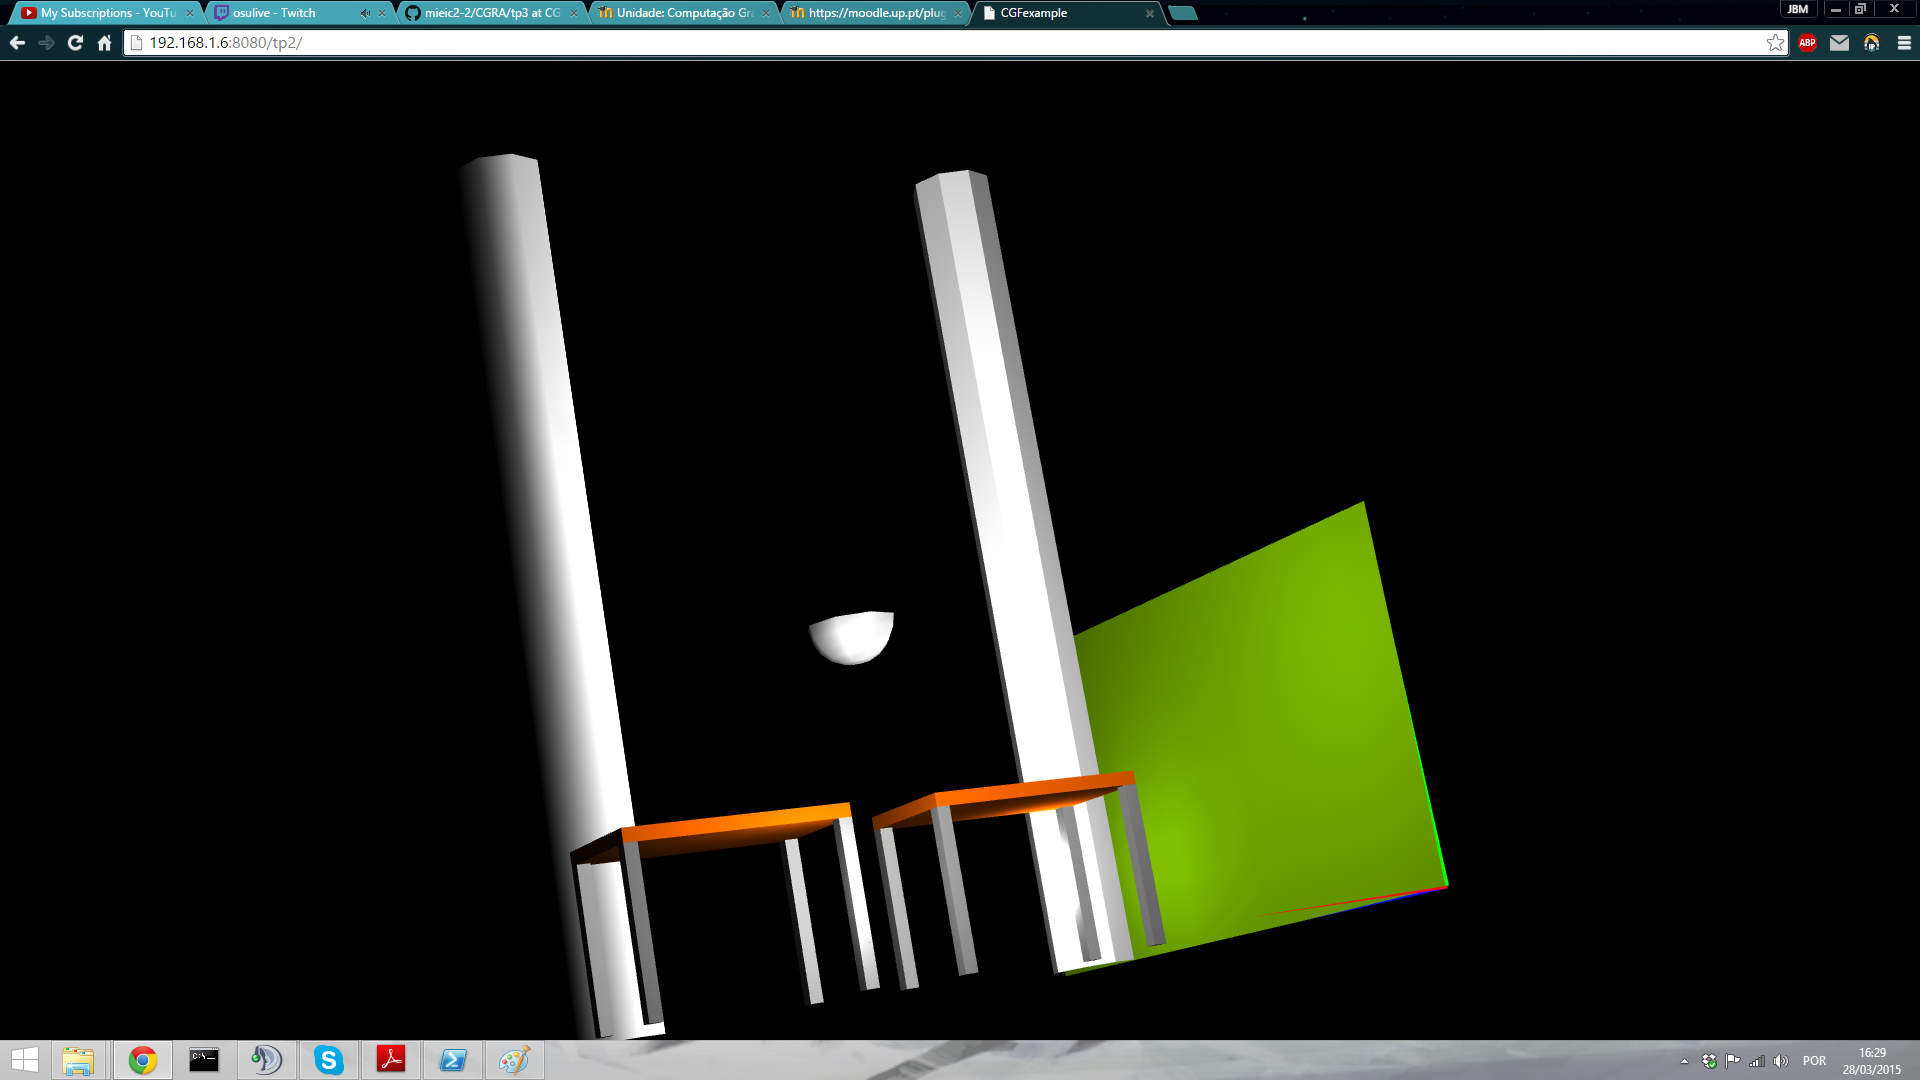
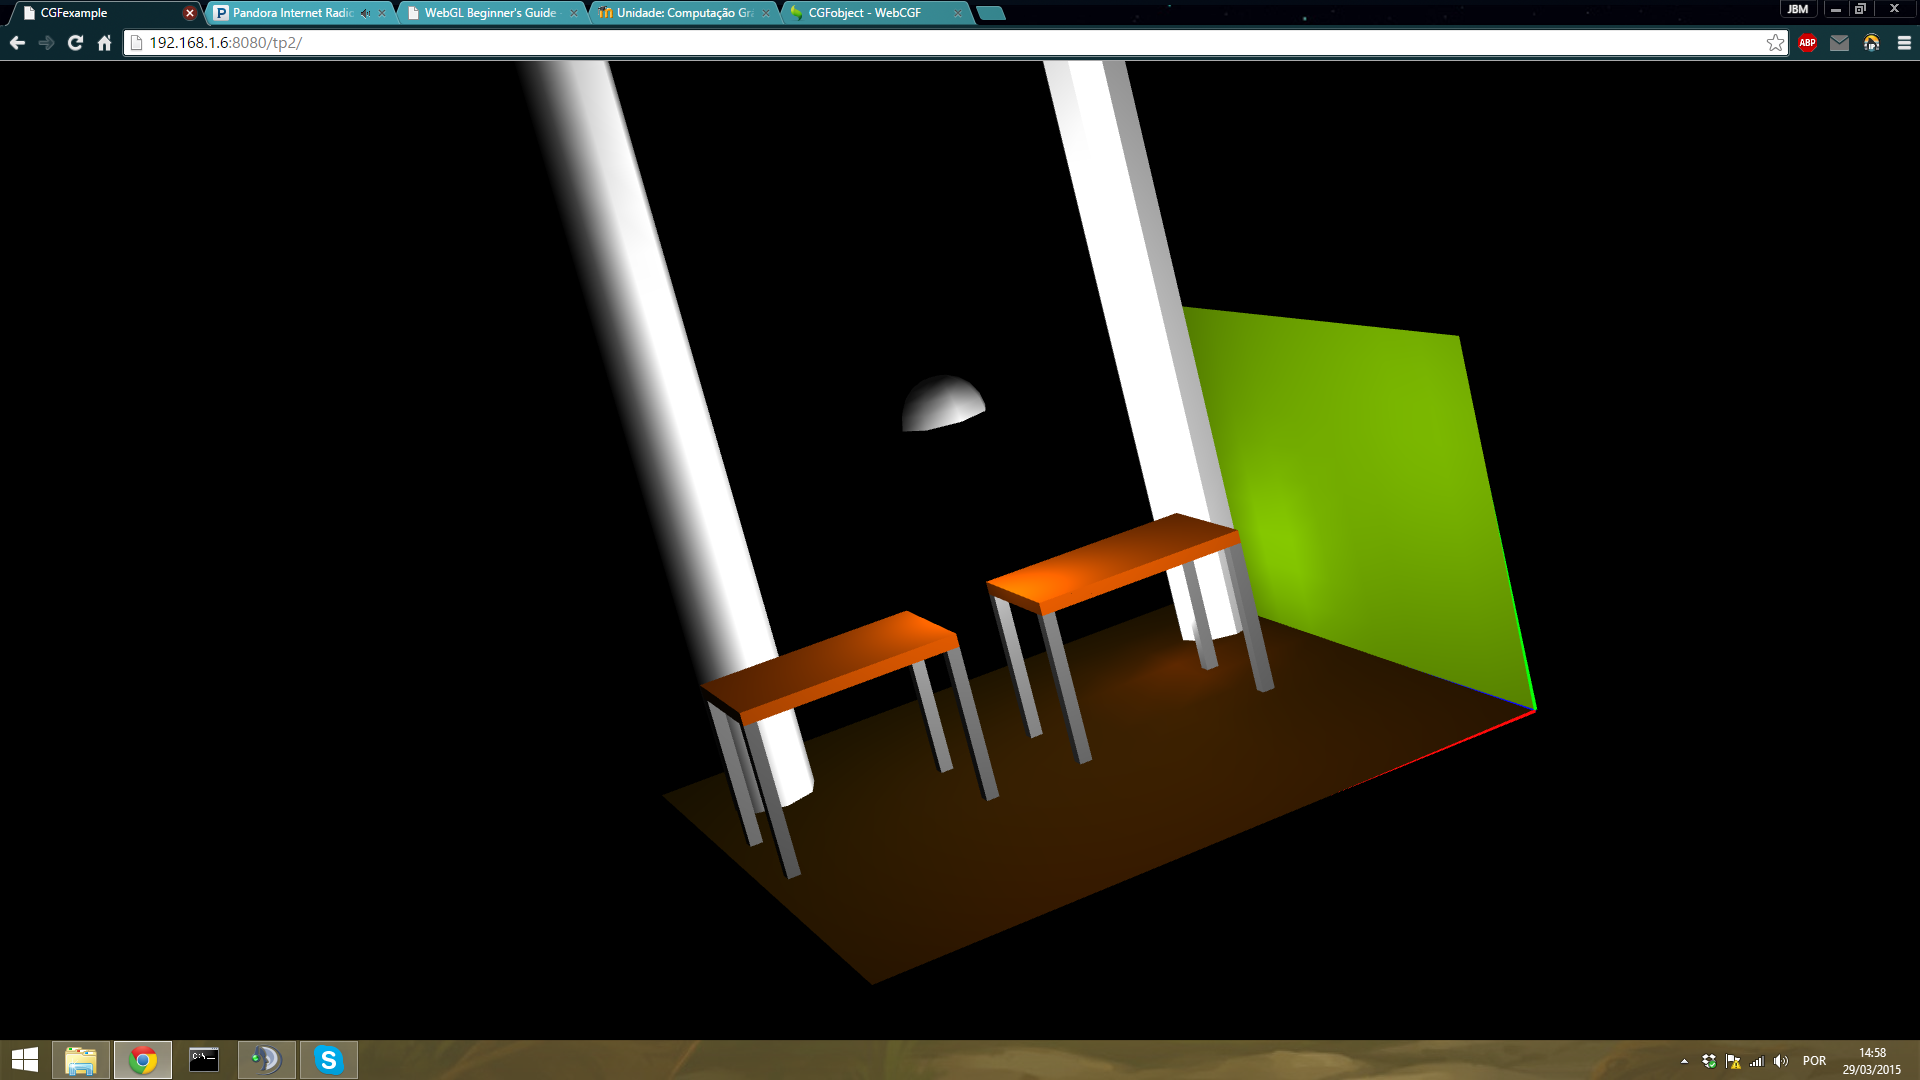
Fixed lamp

Changed region(s): [[0.0, 0.0, 1.0, 1.0], [0.0, 0.0, 0.2812, 0.0306], [0.9375, 0.0306, 0.9688, 0.0611]]

diff --git a/CGRA/tp2/LightingScene.js b/CGRA/tp2/LightingScene.js
@@ -80,7 +80,7 @@ LightingScene.prototype.initLights = function() {
 	// Positions for four lights
 	this.lights[0].setPosition(4, 6.0, 1, 1);
 	this.lights[1].setPosition(10.5, 6.0, 1.0, 1.0);
-	this.lights[2].setPosition(10.5, 2.0, 5.0, 1.0);
+	this.lights[2].setPosition(8, 6, 8, 1.0);
 	this.lights[3].setPosition(3, 2.0, 10.0, 1.0);
 
 	this.lights[0].setAmbient(0, 0, 0, 1);
@@ -218,7 +218,7 @@ LightingScene.prototype.display = function() {
 	//"Lamp"
 	this.pushMatrix();
 		this.translate(8, 8, 8);
-		this.rotate(90*degToRad, 1, 0, 0);
+		this.rotate(-90*degToRad, 1, 0, 0);
 		this.lamp.display();
 	this.popMatrix();
 	// ---- END Primitive drawing section
